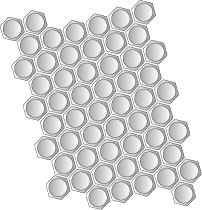
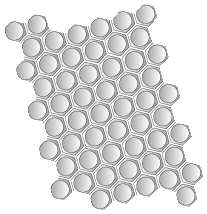
Octave board graphics no transparency inside, so selection works better. Octave boards closer together.

Changed region(s): [[0.0, 0.0, 1.0, 1.0]]

diff --git a/Source/ViewConstants.h b/Source/ViewConstants.h
@@ -28,7 +28,7 @@
 
 // Key set fields
 #define TERPSTRAKEYSETFLDFIRSTYPOS 32
-#define TERPSTRAKEYSETFLDSPAN 160
+#define TERPSTRAKEYSETFLDSPAN 148
 
 // Single key fields
 #define TERPSTRASINGLEKEYFIELDFIRSTYPOS 300
